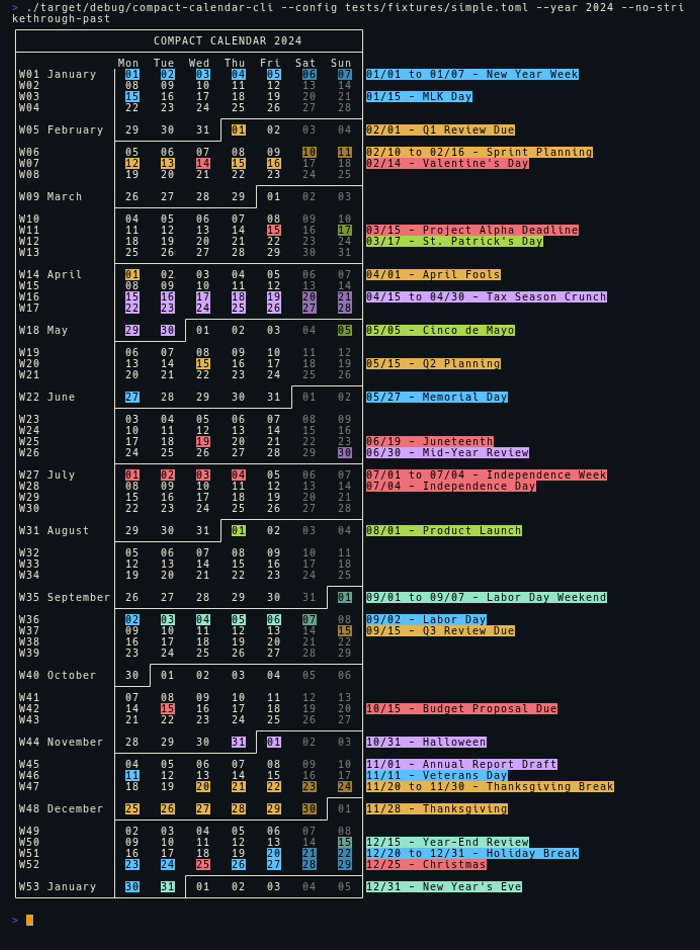
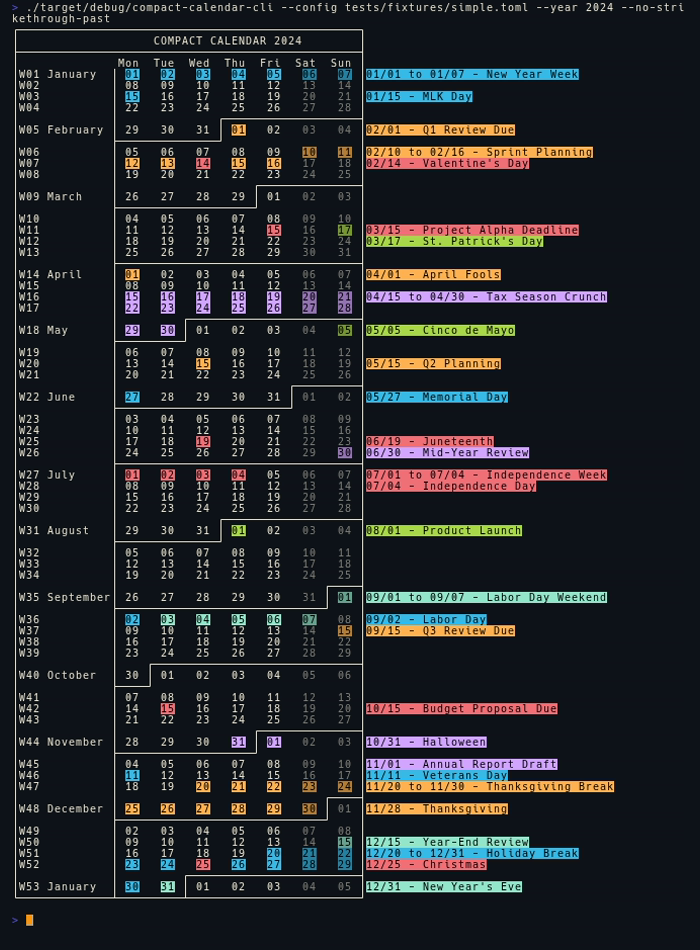
Use ratatui-style-ayu

diff --git a/src/rendering.rs b/src/rendering.rs
@@ -3,6 +3,7 @@ use crate::models::{Calendar, ColorMode, DateDetail, PastDateDisplay, WeekStart,
 use anstyle::{AnsiColor, Color, Effects, RgbColor, Style};
 use chrono::Weekday;
 use chrono::{Datelike, NaiveDate};
+use ratatui_style_ayu::ayu_dark as ayu;
 
 #[derive(Debug, Clone)]
 pub struct RenderState {
@@ -286,64 +287,84 @@ impl ColorPalette {
     }
 
     pub fn get_color_value(name: &str) -> Option<ColorValue> {
+        // Helper function to convert ratatui_core Color to anstyle RgbColor
+        let to_rgb = |color: ratatui_core::style::Color| -> RgbColor {
+            match color {
+                ratatui_core::style::Color::Rgb(r, g, b) => RgbColor(r, g, b),
+                _ => RgbColor(255, 255, 255), // fallback
+            }
+        };
+
+        // Helper to create dimmed version by reducing brightness
+        let dimmed = |rgb: RgbColor| -> RgbColor {
+            RgbColor(
+                (rgb.0 as f32 * 0.7) as u8,
+                (rgb.1 as f32 * 0.7) as u8,
+                (rgb.2 as f32 * 0.7) as u8,
+            )
+        };
+
         match name {
-            "orange" => Some(ColorValue::new(
-                RgbColor(255, 143, 64),
-                RgbColor(178, 100, 45),
-            )),
-            "yellow" => Some(ColorValue::new(
-                RgbColor(230, 180, 80),
-                RgbColor(161, 126, 56),
-            )),
-            "green" => Some(ColorValue::new(
-                RgbColor(170, 217, 76),
-                RgbColor(119, 152, 53),
-            )),
-            "blue" => Some(ColorValue::new(
-                RgbColor(89, 194, 255),
-                RgbColor(62, 136, 179),
-            )),
-            "purple" => Some(ColorValue::new(
-                RgbColor(210, 166, 255),
-                RgbColor(147, 116, 179),
-            )),
-            "red" => Some(ColorValue::new(
-                RgbColor(240, 113, 120),
-                RgbColor(168, 79, 84),
-            )),
-            "cyan" => Some(ColorValue::new(
-                RgbColor(149, 230, 203),
-                RgbColor(104, 161, 142),
-            )),
-            "gray" => Some(ColorValue::new(RgbColor(95, 99, 110), RgbColor(67, 69, 77))),
-            "light_orange" => Some(ColorValue::new(
-                RgbColor(255, 180, 84),
-                RgbColor(179, 126, 59),
-            )),
-            "light_yellow" => Some(ColorValue::new(
-                RgbColor(249, 175, 79),
-                RgbColor(174, 123, 55),
-            )),
-            "light_green" => Some(ColorValue::new(
-                RgbColor(145, 179, 98),
-                RgbColor(102, 125, 69),
-            )),
-            "light_blue" => Some(ColorValue::new(
-                RgbColor(83, 189, 250),
-                RgbColor(58, 132, 175),
-            )),
-            "light_purple" => Some(ColorValue::new(
-                RgbColor(210, 166, 255),
-                RgbColor(147, 116, 179),
-            )),
-            "light_red" => Some(ColorValue::new(
-                RgbColor(234, 108, 115),
-                RgbColor(164, 76, 81),
-            )),
-            "light_cyan" => Some(ColorValue::new(
-                RgbColor(144, 225, 198),
-                RgbColor(101, 158, 139),
-            )),
+            "orange" => {
+                let normal = to_rgb(ayu::ORANGE);
+                Some(ColorValue::new(normal, dimmed(normal)))
+            }
+            "yellow" => {
+                let normal = to_rgb(ayu::YELLOW);
+                Some(ColorValue::new(normal, dimmed(normal)))
+            }
+            "green" => {
+                let normal = to_rgb(ayu::GREEN);
+                Some(ColorValue::new(normal, dimmed(normal)))
+            }
+            "blue" => {
+                let normal = to_rgb(ayu::BLUE);
+                Some(ColorValue::new(normal, dimmed(normal)))
+            }
+            "purple" => {
+                let normal = to_rgb(ayu::PURPLE);
+                Some(ColorValue::new(normal, dimmed(normal)))
+            }
+            "red" => {
+                let normal = to_rgb(ayu::RED);
+                Some(ColorValue::new(normal, dimmed(normal)))
+            }
+            "cyan" => {
+                let normal = to_rgb(ayu::CYAN);
+                Some(ColorValue::new(normal, dimmed(normal)))
+            }
+            "gray" => {
+                let normal = to_rgb(ayu::COMMENT);
+                Some(ColorValue::new(normal, dimmed(normal)))
+            }
+            "light_orange" => {
+                let normal = to_rgb(ayu::ORANGE);
+                Some(ColorValue::new(normal, dimmed(normal)))
+            }
+            "light_yellow" => {
+                let normal = to_rgb(ayu::YELLOW);
+                Some(ColorValue::new(normal, dimmed(normal)))
+            }
+            "light_green" => {
+                let normal = to_rgb(ayu::GREEN);
+                Some(ColorValue::new(normal, dimmed(normal)))
+            }
+            "light_blue" => {
+                let normal = to_rgb(ayu::BLUE);
+                Some(ColorValue::new(normal, dimmed(normal)))
+            }
+            "light_purple" => {
+                let normal = to_rgb(ayu::PURPLE);
+                Some(ColorValue::new(normal, dimmed(normal)))
+            }
+            "light_red" => {
+                let normal = to_rgb(ayu::RED);
+                Some(ColorValue::new(normal, dimmed(normal)))
+            }
+            "light_cyan" => {
+                let normal = to_rgb(ayu::CYAN);
+                Some(ColorValue::new(normal, dimmed(normal)))
+            }
             _ => None,
         }
     }
